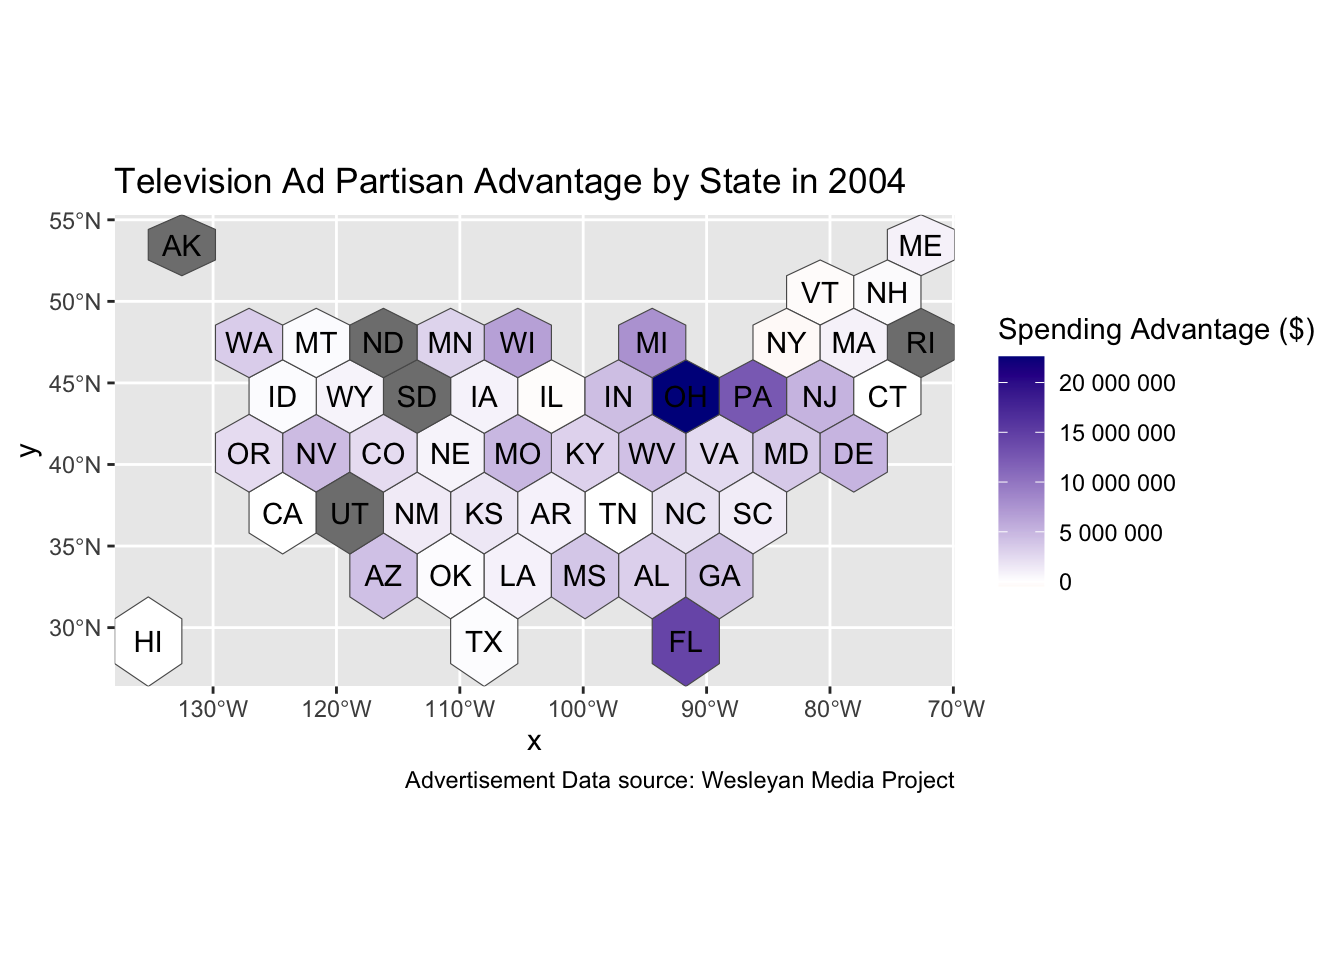
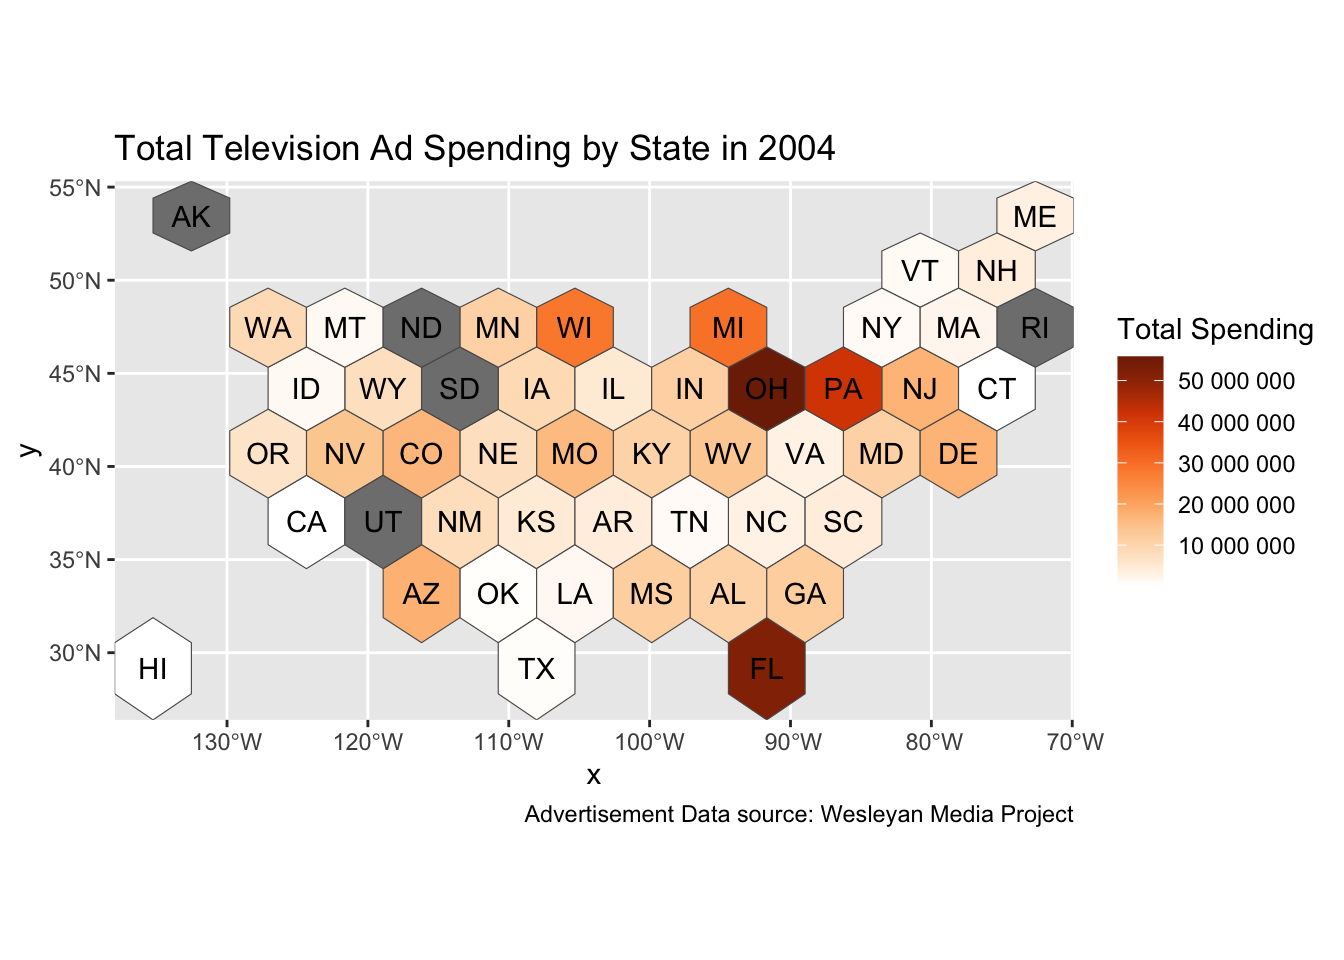
more analysis, formating etc

Changed region(s): [[0.0312, 0.125, 0.9688, 0.875], [0.0312, 0.2812, 0.0938, 0.3438], [0.0312, 0.4688, 0.0938, 0.5]]

diff --git a/content/post/2024-10-14-blog-post-6-the-air-war/index.md b/content/post/2024-10-14-blog-post-6-the-air-war/index.md
@@ -57,117 +57,147 @@ As can be seen, there is great variation between campaigns on the timing of when
 
 
 
+We also can trace the state-by-state expenditure over the years. 
 
 
 
 
-
-
-
-
-<img src="{{< blogdown/postref >}}index_files/figure-html/unnamed-chunk-16-1.png" width="672" /><img src="{{< blogdown/postref >}}index_files/figure-html/unnamed-chunk-16-2.png" width="672" /><img src="{{< blogdown/postref >}}index_files/figure-html/unnamed-chunk-16-3.png" width="672" /><img src="{{< blogdown/postref >}}index_files/figure-html/unnamed-chunk-16-4.png" width="672" /><img src="{{< blogdown/postref >}}index_files/figure-html/unnamed-chunk-16-5.png" width="672" />
 
 <img src="{{< blogdown/postref >}}index_files/figure-html/unnamed-chunk-17-1.png" width="672" /><img src="{{< blogdown/postref >}}index_files/figure-html/unnamed-chunk-17-2.png" width="672" /><img src="{{< blogdown/postref >}}index_files/figure-html/unnamed-chunk-17-3.png" width="672" /><img src="{{< blogdown/postref >}}index_files/figure-html/unnamed-chunk-17-4.png" width="672" /><img src="{{< blogdown/postref >}}index_files/figure-html/unnamed-chunk-17-5.png" width="672" />
 
 
 
+<img src="{{< blogdown/postref >}}index_files/figure-html/unnamed-chunk-19-1.png" width="672" /><img src="{{< blogdown/postref >}}index_files/figure-html/unnamed-chunk-19-2.png" width="672" /><img src="{{< blogdown/postref >}}index_files/figure-html/unnamed-chunk-19-3.png" width="672" />
+
+As you can see in the maps above, the states that campaigns have targeted with ad spending has changed considerably over time, though certain states, such as Florida, tend to be heavily contested every cycle (although that seems likely to not be the case in 2024).
 
 
+## Regression Model on Ad Spending
 
-<img src="{{< blogdown/postref >}}index_files/figure-html/unnamed-chunk-18-1.png" width="672" /><img src="{{< blogdown/postref >}}index_files/figure-html/unnamed-chunk-18-2.png" width="672" />
+Knowing how much the campaigns have spent in each of the swing states every cycle and thus knowing how much of an advantage each party had in a given state, we can investigate whether these spending advantages had any impact on the election results in these states. Below are to graphs. The first depicts Democratic party spending advantage in states won or lost by less than 5 points between 2000 and 2020 (excluding 2016) compared to their two-party vote share in each said state. The second graph shows the same thing, except instead of the Democratic two-party vote share, it shows the shift towards (or against) Democrats in the two-party vote share compared to the prior election. The trendlines of each of these relationships are also shown.
 
+<img src="{{< blogdown/postref >}}index_files/figure-html/unnamed-chunk-20-1.png" width="672" />
 
+As can be seen in these two graphs, the relationship between ad spending advantage and vote share is very weak if at all present, and the relationship between spending advantage and shift in how a state votes is slightly stronger but still very weak. If I run three regression models below, a similar story plays out.
 
-```
-## 
-## Call:
-## lm(formula = D_pv2p ~ spending_diff, data = ads_vote_merged)
-## 
-## Residuals:
-##      Min       1Q   Median       3Q      Max 
-## -2.55179 -0.77890 -0.01225  1.04017  2.16948 
-## 
-## Coefficients:
-##                Estimate Std. Error t value Pr(>|t|)    
-## (Intercept)   5.018e+01  2.192e-01 228.926   <2e-16 ***
-## spending_diff 3.972e-09  2.934e-08   0.135    0.893    
-## ---
-## Signif. codes:  0 '***' 0.001 '**' 0.01 '*' 0.05 '.' 0.1 ' ' 1
-## 
-## Residual standard error: 1.273 on 36 degrees of freedom
-##   (13 observations deleted due to missingness)
-## Multiple R-squared:  0.000509,	Adjusted R-squared:  -0.02725 
-## F-statistic: 0.01833 on 1 and 36 DF,  p-value: 0.893
-```
+<table style="border-collapse:collapse; border:none;">
+<caption style="font-weight: bold; text-align:left;">Ad Spending Regression Table (2000-2020)</caption>
+<tr>
+<th style="border-top: double; text-align:center; font-style:normal; font-weight:bold; padding:0.2cm;  text-align:left; ">&nbsp;</th>
+<th colspan="4" style="border-top: double; text-align:center; font-style:normal; font-weight:bold; padding:0.2cm; ">Democratic Two-Party Vote Share</th>
+</tr>
+<tr>
+<td style=" text-align:center; border-bottom:1px solid; font-style:italic; font-weight:normal;  text-align:left; ">Predictors</td>
+<td style=" text-align:center; border-bottom:1px solid; font-style:italic; font-weight:normal;  ">Estimates</td>
+<td style=" text-align:center; border-bottom:1px solid; font-style:italic; font-weight:normal;  ">std. Error</td>
+<td style=" text-align:center; border-bottom:1px solid; font-style:italic; font-weight:normal;  ">CI</td>
+<td style=" text-align:center; border-bottom:1px solid; font-style:italic; font-weight:normal;  ">p</td>
+</tr>
+<tr>
+<td style=" padding:0.2cm; text-align:left; vertical-align:top; text-align:left; ">(Intercept)</td>
+<td style=" padding:0.2cm; text-align:left; vertical-align:top; text-align:center;  ">50.18</td>
+<td style=" padding:0.2cm; text-align:left; vertical-align:top; text-align:center;  ">0.22</td>
+<td style=" padding:0.2cm; text-align:left; vertical-align:top; text-align:center;  ">49.73&nbsp;&ndash;&nbsp;50.62</td>
+<td style=" padding:0.2cm; text-align:left; vertical-align:top; text-align:center;  "><strong>&lt;0.001</strong></td>
+</tr>
+<tr>
+<td style=" padding:0.2cm; text-align:left; vertical-align:top; text-align:left; ">spending diff</td>
+<td style=" padding:0.2cm; text-align:left; vertical-align:top; text-align:center;  ">0.00</td>
+<td style=" padding:0.2cm; text-align:left; vertical-align:top; text-align:center;  ">0.00</td>
+<td style=" padding:0.2cm; text-align:left; vertical-align:top; text-align:center;  ">&#45;0.00&nbsp;&ndash;&nbsp;0.00</td>
+<td style=" padding:0.2cm; text-align:left; vertical-align:top; text-align:center;  ">0.893</td>
+</tr>
+<tr>
+<td style=" padding:0.2cm; text-align:left; vertical-align:top; text-align:left; padding-top:0.1cm; padding-bottom:0.1cm; border-top:1px solid;">Observations</td>
+<td style=" padding:0.2cm; text-align:left; vertical-align:top; padding-top:0.1cm; padding-bottom:0.1cm; text-align:left; border-top:1px solid;" colspan="4">38</td>
+</tr>
+<tr>
+<td style=" padding:0.2cm; text-align:left; vertical-align:top; text-align:left; padding-top:0.1cm; padding-bottom:0.1cm;">R<sup>2</sup> / R<sup>2</sup> adjusted</td>
+<td style=" padding:0.2cm; text-align:left; vertical-align:top; padding-top:0.1cm; padding-bottom:0.1cm; text-align:left;" colspan="4">0.001 / -0.027</td>
+</tr>
 
-```
-## 
-## Call:
-## lm(formula = D_pv2p ~ spending_diff + D_pv2p_lag1, data = ads_vote_merged)
-## 
-## Residuals:
-##      Min       1Q   Median       3Q      Max 
-## -2.28631 -0.55950  0.07694  1.02109  2.30173 
-## 
-## Coefficients:
-##                Estimate Std. Error t value Pr(>|t|)    
-## (Intercept)   4.627e+01  2.847e+00  16.251   <2e-16 ***
-## spending_diff 1.300e-08  2.971e-08   0.438    0.664    
-## D_pv2p_lag1   7.761e-02  5.645e-02   1.375    0.178    
-## ---
-## Signif. codes:  0 '***' 0.001 '**' 0.01 '*' 0.05 '.' 0.1 ' ' 1
-## 
-## Residual standard error: 1.258 on 35 degrees of freedom
-##   (13 observations deleted due to missingness)
-## Multiple R-squared:  0.05173,	Adjusted R-squared:  -0.002455 
-## F-statistic: 0.9547 on 2 and 35 DF,  p-value: 0.3947
-```
+</table>
+<table style="border-collapse:collapse; border:none;">
+<caption style="font-weight: bold; text-align:left;">Ad Spending Regression Table, w/ Vote Lag (2000-2020)</caption>
+<tr>
+<th style="border-top: double; text-align:center; font-style:normal; font-weight:bold; padding:0.2cm;  text-align:left; ">&nbsp;</th>
+<th colspan="4" style="border-top: double; text-align:center; font-style:normal; font-weight:bold; padding:0.2cm; ">Democratic Two-Party Vote Share</th>
+</tr>
+<tr>
+<td style=" text-align:center; border-bottom:1px solid; font-style:italic; font-weight:normal;  text-align:left; ">Predictors</td>
+<td style=" text-align:center; border-bottom:1px solid; font-style:italic; font-weight:normal;  ">Estimates</td>
+<td style=" text-align:center; border-bottom:1px solid; font-style:italic; font-weight:normal;  ">std. Error</td>
+<td style=" text-align:center; border-bottom:1px solid; font-style:italic; font-weight:normal;  ">CI</td>
+<td style=" text-align:center; border-bottom:1px solid; font-style:italic; font-weight:normal;  ">p</td>
+</tr>
+<tr>
+<td style=" padding:0.2cm; text-align:left; vertical-align:top; text-align:left; ">(Intercept)</td>
+<td style=" padding:0.2cm; text-align:left; vertical-align:top; text-align:center;  ">46.27</td>
+<td style=" padding:0.2cm; text-align:left; vertical-align:top; text-align:center;  ">2.85</td>
+<td style=" padding:0.2cm; text-align:left; vertical-align:top; text-align:center;  ">40.49&nbsp;&ndash;&nbsp;52.05</td>
+<td style=" padding:0.2cm; text-align:left; vertical-align:top; text-align:center;  "><strong>&lt;0.001</strong></td>
+</tr>
+<tr>
+<td style=" padding:0.2cm; text-align:left; vertical-align:top; text-align:left; ">spending diff</td>
+<td style=" padding:0.2cm; text-align:left; vertical-align:top; text-align:center;  ">0.00</td>
+<td style=" padding:0.2cm; text-align:left; vertical-align:top; text-align:center;  ">0.00</td>
+<td style=" padding:0.2cm; text-align:left; vertical-align:top; text-align:center;  ">&#45;0.00&nbsp;&ndash;&nbsp;0.00</td>
+<td style=" padding:0.2cm; text-align:left; vertical-align:top; text-align:center;  ">0.664</td>
+</tr>
+<tr>
+<td style=" padding:0.2cm; text-align:left; vertical-align:top; text-align:left; ">D pv2p lag1</td>
+<td style=" padding:0.2cm; text-align:left; vertical-align:top; text-align:center;  ">0.08</td>
+<td style=" padding:0.2cm; text-align:left; vertical-align:top; text-align:center;  ">0.06</td>
+<td style=" padding:0.2cm; text-align:left; vertical-align:top; text-align:center;  ">&#45;0.04&nbsp;&ndash;&nbsp;0.19</td>
+<td style=" padding:0.2cm; text-align:left; vertical-align:top; text-align:center;  ">0.178</td>
+</tr>
+<tr>
+<td style=" padding:0.2cm; text-align:left; vertical-align:top; text-align:left; padding-top:0.1cm; padding-bottom:0.1cm; border-top:1px solid;">Observations</td>
+<td style=" padding:0.2cm; text-align:left; vertical-align:top; padding-top:0.1cm; padding-bottom:0.1cm; text-align:left; border-top:1px solid;" colspan="4">38</td>
+</tr>
+<tr>
+<td style=" padding:0.2cm; text-align:left; vertical-align:top; text-align:left; padding-top:0.1cm; padding-bottom:0.1cm;">R<sup>2</sup> / R<sup>2</sup> adjusted</td>
+<td style=" padding:0.2cm; text-align:left; vertical-align:top; padding-top:0.1cm; padding-bottom:0.1cm; text-align:left;" colspan="4">0.052 / -0.002</td>
+</tr>
 
-```
-## 
-## Call:
-## lm(formula = D_pv2p_shift1 ~ spending_diff, data = ads_vote_merged)
-## 
-## Residuals:
-##    Min     1Q Median     3Q    Max 
-## -5.763 -2.280 -0.162  1.703  9.817 
-## 
-## Coefficients:
-##                 Estimate Std. Error t value Pr(>|t|)
-## (Intercept)   -1.208e-01  6.271e-01  -0.193    0.848
-## spending_diff  1.203e-07  8.393e-08   1.434    0.160
-## 
-## Residual standard error: 3.643 on 36 degrees of freedom
-##   (13 observations deleted due to missingness)
-## Multiple R-squared:  0.054,	Adjusted R-squared:  0.02772 
-## F-statistic: 2.055 on 1 and 36 DF,  p-value: 0.1603
-```
+</table>
+<table style="border-collapse:collapse; border:none;">
+<caption style="font-weight: bold; text-align:left;">Ad Spending Regression Table, Vote Shift (2000-2020)</caption>
+<tr>
+<th style="border-top: double; text-align:center; font-style:normal; font-weight:bold; padding:0.2cm;  text-align:left; ">&nbsp;</th>
+<th colspan="4" style="border-top: double; text-align:center; font-style:normal; font-weight:bold; padding:0.2cm; ">Democratic Two-Party Vote Share Shift</th>
+</tr>
+<tr>
+<td style=" text-align:center; border-bottom:1px solid; font-style:italic; font-weight:normal;  text-align:left; ">Predictors</td>
+<td style=" text-align:center; border-bottom:1px solid; font-style:italic; font-weight:normal;  ">Estimates</td>
+<td style=" text-align:center; border-bottom:1px solid; font-style:italic; font-weight:normal;  ">std. Error</td>
+<td style=" text-align:center; border-bottom:1px solid; font-style:italic; font-weight:normal;  ">CI</td>
+<td style=" text-align:center; border-bottom:1px solid; font-style:italic; font-weight:normal;  ">p</td>
+</tr>
+<tr>
+<td style=" padding:0.2cm; text-align:left; vertical-align:top; text-align:left; ">(Intercept)</td>
+<td style=" padding:0.2cm; text-align:left; vertical-align:top; text-align:center;  ">&#45;0.12</td>
+<td style=" padding:0.2cm; text-align:left; vertical-align:top; text-align:center;  ">0.63</td>
+<td style=" padding:0.2cm; text-align:left; vertical-align:top; text-align:center;  ">&#45;1.39&nbsp;&ndash;&nbsp;1.15</td>
+<td style=" padding:0.2cm; text-align:left; vertical-align:top; text-align:center;  ">0.848</td>
+</tr>
+<tr>
+<td style=" padding:0.2cm; text-align:left; vertical-align:top; text-align:left; ">spending diff</td>
+<td style=" padding:0.2cm; text-align:left; vertical-align:top; text-align:center;  ">0.00</td>
+<td style=" padding:0.2cm; text-align:left; vertical-align:top; text-align:center;  ">0.00</td>
+<td style=" padding:0.2cm; text-align:left; vertical-align:top; text-align:center;  ">&#45;0.00&nbsp;&ndash;&nbsp;0.00</td>
+<td style=" padding:0.2cm; text-align:left; vertical-align:top; text-align:center;  ">0.160</td>
+</tr>
+<tr>
+<td style=" padding:0.2cm; text-align:left; vertical-align:top; text-align:left; padding-top:0.1cm; padding-bottom:0.1cm; border-top:1px solid;">Observations</td>
+<td style=" padding:0.2cm; text-align:left; vertical-align:top; padding-top:0.1cm; padding-bottom:0.1cm; text-align:left; border-top:1px solid;" colspan="4">38</td>
+</tr>
+<tr>
+<td style=" padding:0.2cm; text-align:left; vertical-align:top; text-align:left; padding-top:0.1cm; padding-bottom:0.1cm;">R<sup>2</sup> / R<sup>2</sup> adjusted</td>
+<td style=" padding:0.2cm; text-align:left; vertical-align:top; padding-top:0.1cm; padding-bottom:0.1cm; text-align:left;" colspan="4">0.054 / 0.028</td>
+</tr>
 
-```
-## 
-## Call:
-## lm(formula = D_pv2p_shift1 ~ spending_diff + factor(year), data = ads_vote_merged)
-## 
-## Residuals:
-##     Min      1Q  Median      3Q     Max 
-## -3.0049 -1.0512  0.0169  0.8235  4.7740 
-## 
-## Coefficients:
-##                    Estimate Std. Error t value Pr(>|t|)    
-## (Intercept)      -4.345e+00  5.465e-01  -7.951 4.48e-09 ***
-## spending_diff    -1.690e-08  4.557e-08  -0.371  0.71324    
-## factor(year)2004  4.851e+00  7.799e-01   6.220 5.75e-07 ***
-## factor(year)2008  1.069e+01  8.914e-01  11.994 2.22e-13 ***
-## factor(year)2012  3.170e+00  1.041e+00   3.045  0.00463 ** 
-## factor(year)2020  5.419e+00  8.104e-01   6.687 1.51e-07 ***
-## ---
-## Signif. codes:  0 '***' 0.001 '**' 0.01 '*' 0.05 '.' 0.1 ' ' 1
-## 
-## Residual standard error: 1.639 on 32 degrees of freedom
-##   (13 observations deleted due to missingness)
-## Multiple R-squared:  0.8298,	Adjusted R-squared:  0.8032 
-## F-statistic:  31.2 on 5 and 32 DF,  p-value: 2.061e-11
-```
+</table>
 
 
 
